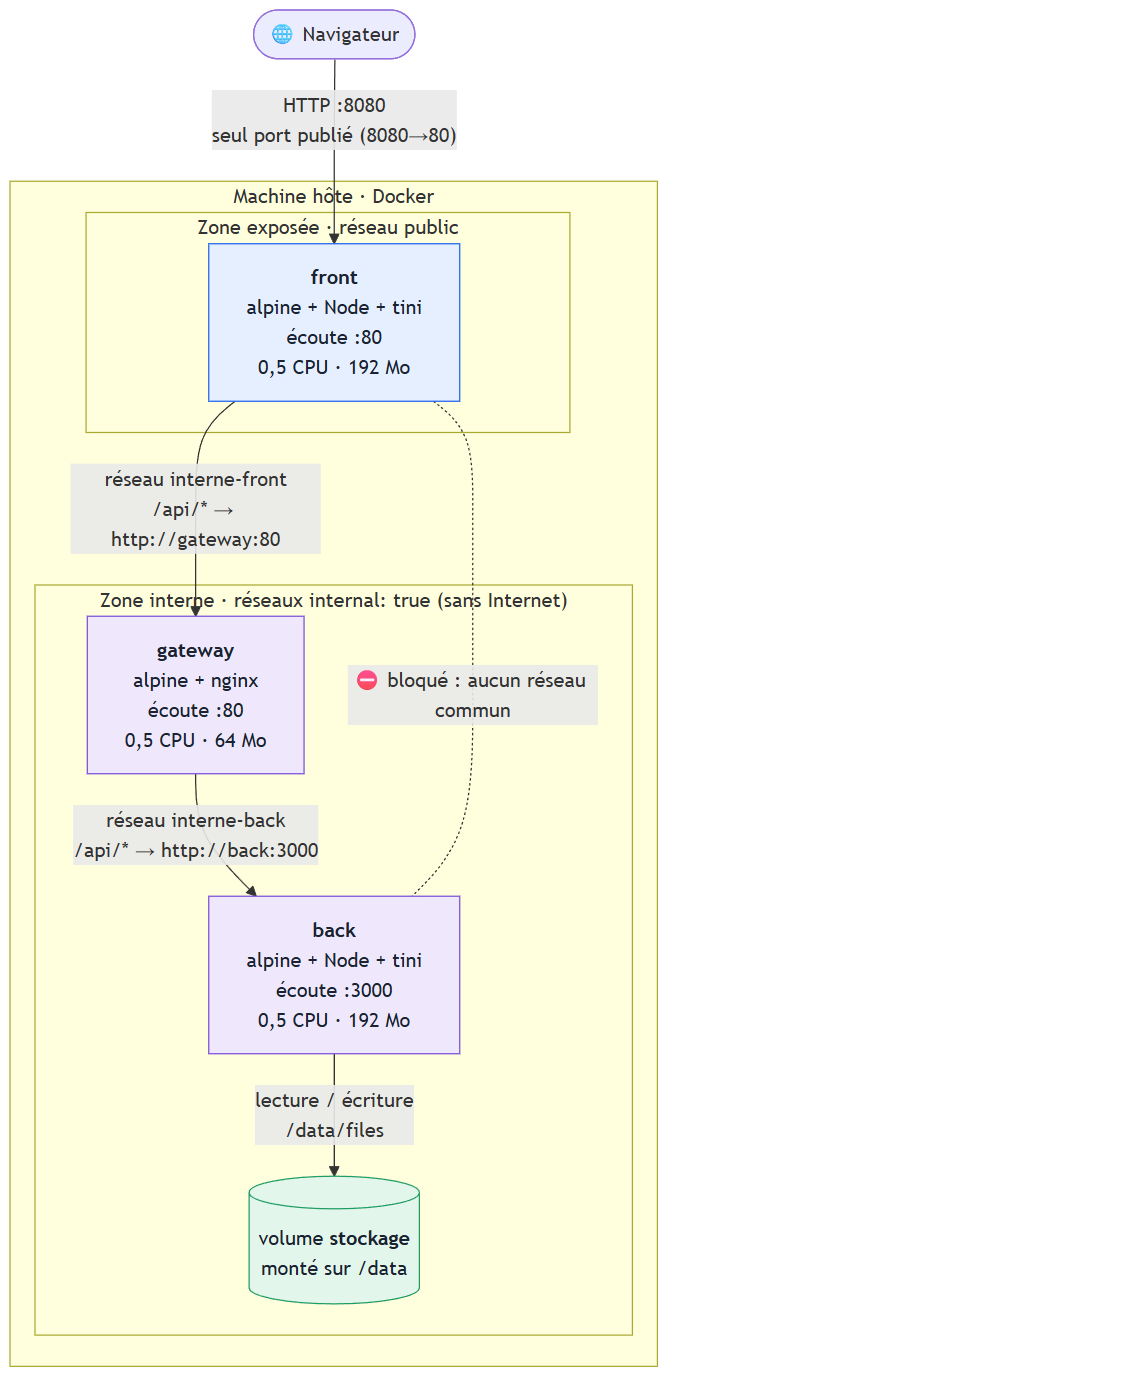
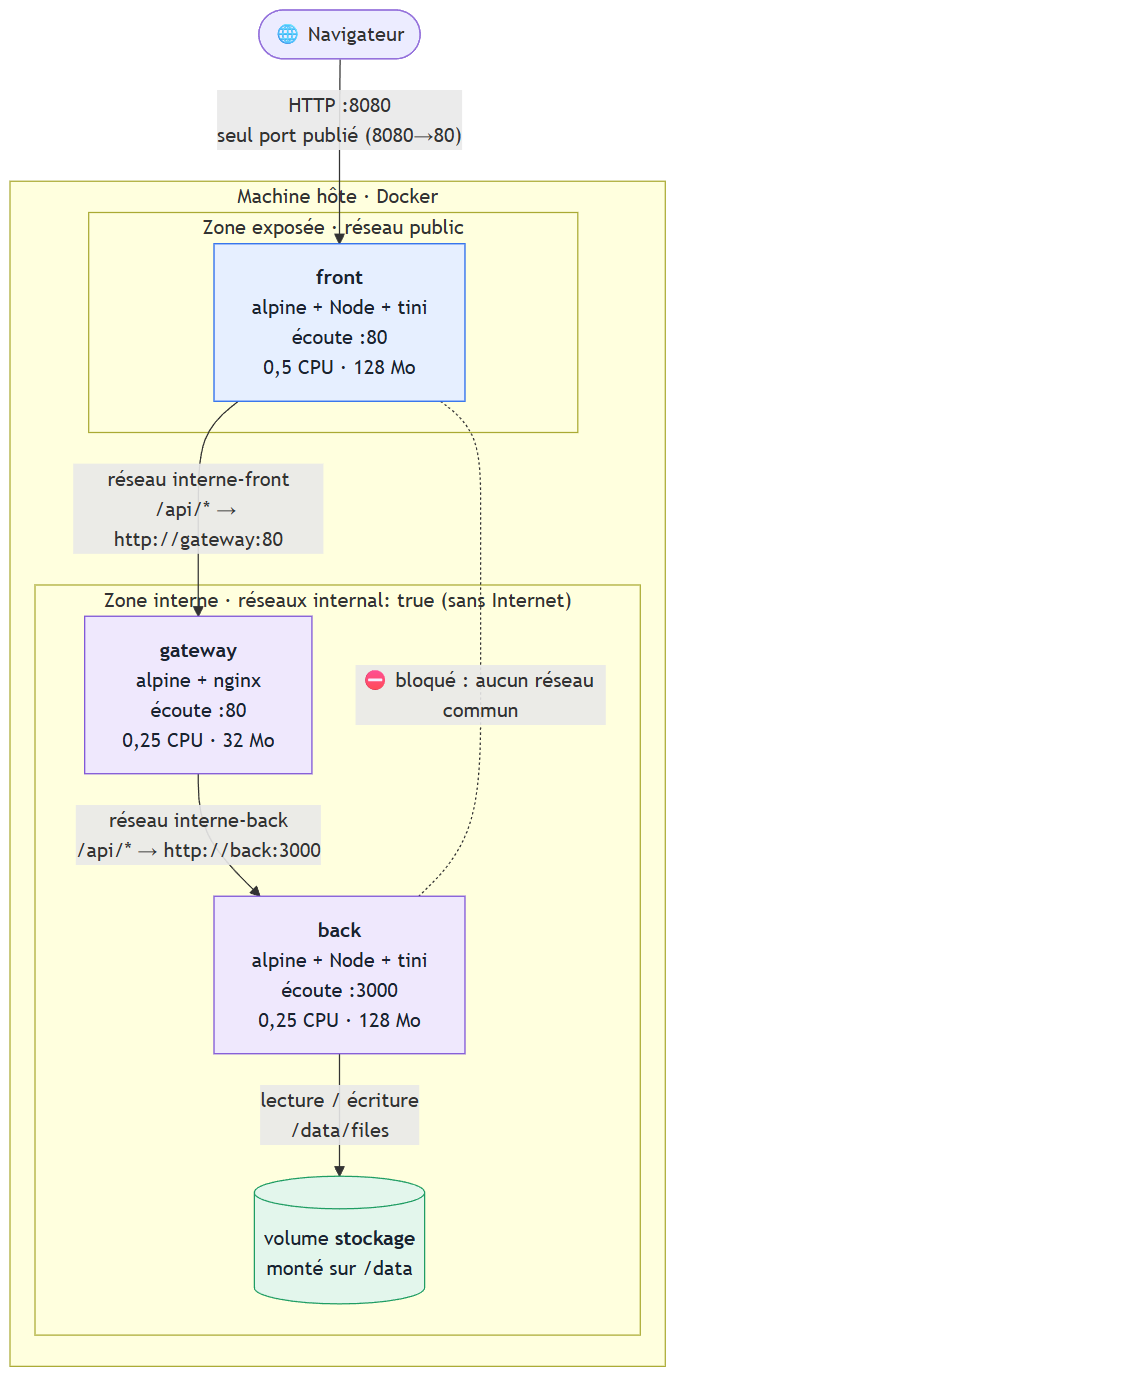
feat(lot5): benchmark des ressources et limites dimensionnées par la mesure
- Bench/ : image alpine + ab (profil compose "bench") et script de mesure docker stats
- limites rééquilibrées selon le coût CPU par requête : front 0.5, gateway 0.25, back 0.25
- mémoire selon les pics mesurés : nginx 32M (~4 Mo), Node 128M (~25 Mo), tas Node 64M
- memswap_limit = limite mémoire : la swap doublait silencieusement les limites
- test OOM : back à 6M tué (137) puis relancé par restart: unless-stopped
- front : le relais retire les en-têtes hop-by-hop (bloquait les clients HTTP/1.0)
- README : section Benchmark détaillée, schéma et docs/architecture.png mis à jour

diff --git a/Frontend/server.js b/Frontend/server.js
@@ -14,12 +14,23 @@ const FILES = {
   '/app.js': ['app.js', 'application/javascript; charset=utf-8'],
 };
 
+// En-têtes « hop-by-hop » (RFC 7230) : ils décrivent une connexion, pas le message, et ne doivent
+// pas être recopiés d'un saut à l'autre. Les recopier (chunked, keep-alive) bloquait les clients HTTP/1.0.
+const HOP_BY_HOP = ['connection', 'keep-alive', 'proxy-connection', 'transfer-encoding', 'te', 'trailer', 'upgrade'];
+
+function withoutHopByHop(headers) {
+  const copy = { ...headers };
+  for (const name of HOP_BY_HOP) delete copy[name];
+  return copy;
+}
+
 // Relaie les appels /api/* vers la gateway (nom du service Docker, joignable seulement en interne)
 function relayToGateway(req, res) {
   const gatewayReq = http.request(
-    { host: GATEWAY_HOST, port: GATEWAY_PORT, path: req.url, method: req.method, headers: req.headers },
+    { host: GATEWAY_HOST, port: GATEWAY_PORT, path: req.url, method: req.method, headers: withoutHopByHop(req.headers) },
     (gatewayRes) => {
-      res.writeHead(gatewayRes.statusCode, gatewayRes.headers);
+      // Node choisit lui-même le découpage adapté au client (chunked en HTTP/1.1, fermeture en HTTP/1.0)
+      res.writeHead(gatewayRes.statusCode, withoutHopByHop(gatewayRes.headers));
       gatewayRes.pipe(res);
       // La gateway peut répondre avant la fin de l'envoi (ex. 413 fichier trop gros) :
       // on lit le reste du corps sans le transmettre, sinon le client reste bloqué

diff --git a/README.md b/README.md
@@ -49,11 +49,11 @@ flowchart TB
   subgraph hote["Machine hôte · Docker"]
     direction TB
     subgraph expose["Zone exposée · réseau public"]
-      front["<b>front</b><br/>alpine + Node + tini<br/>écoute :80<br/>0,5 CPU · 192 Mo"]
+      front["<b>front</b><br/>alpine + Node + tini<br/>écoute :80<br/>0,5 CPU · 128 Mo"]
     end
     subgraph interne["Zone interne · réseaux internal: true (sans Internet)"]
-      gateway["<b>gateway</b><br/>alpine + nginx<br/>écoute :80<br/>0,5 CPU · 64 Mo"]
-      back["<b>back</b><br/>alpine + Node + tini<br/>écoute :3000<br/>0,5 CPU · 192 Mo"]
+      gateway["<b>gateway</b><br/>alpine + nginx<br/>écoute :80<br/>0,25 CPU · 32 Mo"]
+      back["<b>back</b><br/>alpine + Node + tini<br/>écoute :3000<br/>0,25 CPU · 128 Mo"]
       vol[("volume <b>stockage</b><br/>monté sur /data")]
     end
   end
@@ -150,7 +150,7 @@ L'objectif est de pouvoir lancer **plusieurs instances du back** avec une seule 
 
 ### Ressources
 
-Les limites de `deploy.resources` s'appliquent **à chaque instance**. Avec 3 instances du back à 0,5 CPU et 192 Mo, le back peut consommer au total 1,5 CPU et 576 Mo. Le nombre d'instances se choisit en fonction des ressources de la machine.
+Les limites de `deploy.resources` s'appliquent **à chaque instance**. Avec 3 instances du back à 0,25 CPU et 128 Mo, le back peut consommer au total 0,75 CPU et 384 Mo. Le benchmark montre aussi qu'il faudra augmenter la gateway et le front en proportion, sinon ils deviendront le goulot (voir [Benchmark](#benchmark--comment-les-limites-ont-été-choisies)). Le nombre d'instances se choisit en fonction des ressources de la machine.
 
 ### Démonstration prévue
 
@@ -182,6 +182,9 @@ Chaque réponse du back contiendra un en-tête `X-Served-By` avec le nom du cont
 │   ├── Dockerfile
 │   ├── nginx.conf.template  # config nginx avec ${VARIABLES} remplacées au démarrage
 │   └── entrypoint.sh        # génère la config puis lance nginx
+├── Bench/
+│   ├── Dockerfile           # outil de charge ab (profil compose "bench")
+│   └── run-bench.ps1        # mesure CPU/mémoire de chaque service sous charge
 ├── docs/
 │   └── architecture.png     # export image du schéma d'architecture (Mermaid)
 ├── docker-compose.yml       # orchestration des 3 conteneurs
@@ -332,7 +335,7 @@ Résultat testé : un `docker stop` arrête le conteneur en moins d'une seconde,
 
 ```bash
 docker build -t front ./Frontend
-docker run -d --name front -p 8080:80 -e NODE_OPTIONS=--max-old-space-size=128 -e GATEWAY_HOST=gateway --memory=192m --cpus=0.5 front
+docker run -d --name front -p 8080:80 -e NODE_OPTIONS=--max-old-space-size=64 -e GATEWAY_HOST=gateway --memory=128m --memory-swap=128m --cpus=0.5 front
 ```
 
 Seul, le front sert la page, mais `/api/phrase` renvoie `502` tant qu'aucune gateway n'est joignable : voir la section Orchestration.
@@ -426,7 +429,7 @@ Résultat testé : `docker stop` arrête le conteneur en moins d'une seconde.
 
 ```bash
 docker build -t back ./Backend
-docker run -d --name back -p 3000:3000 -e PHRASE="Bonjour depuis le back" -e NODE_OPTIONS=--max-old-space-size=128 --memory=192m --cpus=0.5 back
+docker run -d --name back -p 3000:3000 -e PHRASE="Bonjour depuis le back" -e NODE_OPTIONS=--max-old-space-size=64 --memory=128m --memory-swap=128m --cpus=0.25 back
 ```
 
 Le `-p 3000:3000` sert uniquement à tester l'API seule (`curl http://localhost:3000/api/phrase`). Dans le compose, le back n'est pas publié.
@@ -539,7 +542,7 @@ docker build -t gateway ./Gateway
 docker network create tp-net
 docker run -d --name back  --network tp-net back
 docker run -d --name gateway --network tp-net \
-  -e WORKER_PROCESSES=1 -e WORKER_CONNECTIONS=512 --memory=64m --cpus=0.5 gateway
+  -e WORKER_PROCESSES=1 -e WORKER_CONNECTIONS=512 --memory=32m --memory-swap=32m --cpus=0.25 gateway
 docker run -d --name front --network tp-net -p 8080:80 front
 ```
 
@@ -578,17 +581,110 @@ Les noms d'hôte `gateway` et `back` sont les noms des services : le DNS interne
 
 ### Limitation des ressources
 
-Définie dans `deploy.resources` pour chaque service :
-- **`limits`** : plafond que le conteneur ne peut pas dépasser. En mémoire, s'il le dépasse il est tué (OOM) puis relancé grâce à `restart`.
-- **`reservations`** : mémoire minimale garantie au conteneur.
+Définie pour chaque service dans le compose, avec des valeurs venant du `.env` :
 
-| Service | CPU max | Mémoire max | Mémoire réservée | Justification |
-|---|---|---|---|---|
-| `back` | 0,5 CPU | 192 Mo | 64 Mo | Node consomme environ 10 Mo au repos. `NODE_OPTIONS=--max-old-space-size=128` limite le tas JavaScript : Node libère sa mémoire avant d'atteindre la limite du conteneur. La marge de 64 Mo couvre la mémoire hors tas (runtime, buffers). |
-| `front` | 0,5 CPU | 192 Mo | 64 Mo | Même logique que le back. |
-| `gateway` | 0,5 CPU | 64 Mo | 16 Mo | nginx est très léger (environ 2 Mo au repos). Avec `WORKER_PROCESSES=1`, un seul worker suffit pour 0,5 CPU : plus de workers que de CPU n'apporterait rien. |
+| Réglage | Rôle |
+|---|---|
+| `deploy.resources.limits.cpus` | Plafond de CPU (`0.5` = la moitié d'un cœur). Au-delà, le conteneur est ralenti, pas tué. |
+| `deploy.resources.limits.memory` | Plafond de mémoire. S'il est dépassé, le noyau tue le processus (OOM killer, code `137`), puis `restart: unless-stopped` le relance. |
+| `memswap_limit` (égal à la limite mémoire) | **Désactive la swap.** Par défaut, Docker ajoute autant de swap que de RAM (mesuré : `MemorySwap` = 2 × la limite) : un conteneur « limité à 128 Mo » pouvait en réalité occuper 256 Mo, en ralentissant au lieu de s'arrêter. |
+| `deploy.resources.reservations.memory` | Mémoire **garantie** (réservation souple) : si l'hôte manque de mémoire, Docker reprend d'abord la mémoire des conteneurs qui dépassent leur réservation. |
 
-Consommation mesurée au repos avec `docker stats` : gateway environ 2 Mo, front environ 9 Mo, back environ 10 Mo.
+Valeurs retenues, justifiées par le benchmark ci-dessous :
+
+| Service | CPU | Mémoire max | Tas Node | Réservation | Pic mesuré |
+|---|---|---|---|---|---|
+| `front` | **0,5** | 128 Mo | 64 Mo | 32 Mo | ~50 % CPU · ~25 Mo |
+| `gateway` (nginx) | **0,25** | **32 Mo** | – | 8 Mo | ~26 % CPU · ~4 Mo |
+| `back` | **0,25** | 128 Mo | 64 Mo | 32 Mo | ~25 % CPU · ~20 Mo |
+| `bench` (outil) | 1 | 32 Mo | – | – | – |
+
+### Benchmark : comment les limites ont été choisies
+
+Les limites ne sont pas fixées au hasard : elles sont dimensionnées à partir de **mesures sous charge**, faites avec un outil construit pour l'occasion.
+
+#### Outil de mesure
+
+| Élément | Choix |
+|---|---|
+| Image `Bench/` | Alpine + `apache2-utils` (`ab`, outil de charge HTTP). Image faite par nous, comme les autres (pas d'image de bench du Hub), non-root, `ENTRYPOINT ["ab"]` : le conteneur s'utilise comme une commande. |
+| Service `bench` dans le compose | Dans le profil `bench` : il ne démarre pas avec `docker compose up`, seulement à la demande. Branché sur le réseau `public` uniquement : il attaque le **front comme un vrai client**, donc la mesure couvre toute la chaîne front → gateway → back. Limité lui aussi (1 CPU) pour ne pas voler le CPU des services mesurés. |
+| Script [Bench/run-bench.ps1](Bench/run-bench.ps1) | Lance chaque scénario `ab` et relève `docker stats` en parallèle pendant toute la charge, pour garder le **pic** CPU et mémoire de chaque service. |
+
+```bash
+docker compose up -d --build --wait
+powershell -ExecutionPolicy Bypass -File Bench/run-bench.ps1                          # mesure complète (Windows)
+docker compose --profile bench run --rm bench -n 5000 -c 50 http://front/api/phrase   # un scénario seul
+docker stats                                                                          # suivi en direct, dans un autre terminal
+```
+
+Scénarios : au repos, 1 000 requêtes à 10 en parallèle, 5 000 requêtes à 50 en parallèle, 5 000 requêtes à 100 en parallèle. Machine de test : Docker Desktop, 12 CPU.
+
+#### Étape 1 : mesure de départ (0,5 CPU pour chaque service)
+
+| Scénario | front CPU / Mo | gateway CPU / Mo | back CPU / Mo | Req/s | p95 |
+|---|---|---|---|---|---|
+| Repos | 1 % / 12 Mo | 4 % / 2 Mo | 3 % / 11 Mo | – | – |
+| 5 000 req, 50 en parallèle | **50 %** / 23 Mo | 31 % / 2 Mo | 33 % / 19 Mo | 763 | 103 ms |
+| 5 000 req, 100 en parallèle | **50 %** / 25 Mo | 31 % / 2 Mo | 30 % / 18 Mo | 875 | 174 ms |
+
+Constat : le **front plafonne à sa limite** (50 %) et bride toute la chaîne, alors que la gateway et le back ont de la marge. Avec la même part de CPU pour tous, une partie du CPU de la gateway et du back est gaspillée.
+
+#### Étape 2 : coût de chaque service, en variant les CPU (5 000 req, 50 en parallèle)
+
+| Config (front / gateway / back) | Req/s | p95 | Goulot observé |
+|---|---|---|---|
+| 0,25 / 0,5 / 0,5 | 294 | 306 ms | front, plafonné à 25 % |
+| 0,5 / 0,5 / 0,5 | 763 | 103 ms | front, plafonné à 50 % |
+| 1 / 0,5 / 0,5 | 1 225 | 80 ms | gateway, au maximum (52 %) |
+| 1 / 0,25 / 0,5 | 781 | 97 ms | gateway, plafonnée à 25 % |
+| 1 / 0,25 / 0,25 | 553 | 196 ms | gateway et back |
+| 1 / 0,1 / 0,5 | 348 | 201 ms | gateway, plafonnée à 10 % |
+
+Dans la config la plus rapide (1 225 req/s), on déduit le **coût CPU d'une requête** pour chaque service (CPU au pic ÷ débit) :
+
+| Service | Coût CPU par requête | Pourquoi |
+|---|---|---|
+| front | ~0,74 ms | Le plus coûteux : il reçoit chaque requête **et** en ouvre une nouvelle vers la gateway (relais). |
+| gateway (nginx) | ~0,42 ms | nginx est efficace, mais il relaie lui aussi chaque requête vers le back. |
+| back | ~0,36 ms | Il ne fait que répondre. |
+
+#### Étape 3 : dimensionnement retenu
+
+**CPU, dosé en proportion du coût par requête**, pour que les trois services saturent à peu près au même débit et qu'aucun CPU ne soit gaspillé :
+- front **0,5** : 0,5 / 0,74 ms ≈ 675 req/s ;
+- gateway **0,25** : 0,25 / 0,42 ms ≈ 600 req/s ;
+- back **0,25** : 0,25 / 0,36 ms ≈ 690 req/s.
+
+Le front reçoit le double des autres parce qu'il coûte deux fois plus par requête. **nginx reçoit autant que le back, mais pas plus** : malgré sa légèreté, il traite toutes les requêtes. Lui donner moins (0,1 CPU) divise le débit de la stack par 3,5 (348 req/s).
+
+**Mémoire, dosée selon le pic mesuré.** C'est là que nginx se distingue nettement :
+- **gateway : 32 Mo** pour un pic d'environ 4 Mo. nginx ne garde presque rien en mémoire, et il écrit les gros corps de requête (uploads) sur disque, pas en RAM. 32 Mo laissent 8 fois de marge, soit 4 fois moins que les services Node.
+- **front et back : 128 Mo** pour un pic d'environ 20 à 25 Mo. Node a un coût fixe plus élevé (moteur V8, environ 9 Mo au repos). La marge (plus de 5 fois) est prévue pour les uploads de l'application. Le tas JavaScript est plafonné à **64 Mo** (`NODE_OPTIONS`), la moitié de la limite : le reste couvre la mémoire hors tas (buffers des flux d'upload), pour que Node libère sa mémoire avant d'atteindre la limite du conteneur.
+- **Réservations** légèrement au-dessus du pic mesuré (32 Mo pour Node, 8 Mo pour nginx) : même si l'hôte manque de mémoire, chaque service garde de quoi tourner normalement.
+
+#### Étape 4 : validation avec les valeurs retenues (sans swap)
+
+| Scénario | front CPU / Mo | gateway CPU / Mo | back CPU / Mo | Req/s | p95 | Échecs |
+|---|---|---|---|---|---|---|
+| Repos | 0 % / 9 Mo | 0 % / 2 Mo | 0 % / 8 Mo | – | – | – |
+| 1 000 req, 10 en parallèle | 42 % / 13 Mo | 13 % / 2 Mo | 26 % / 12 Mo | 335 | 88 ms | 0 |
+| 5 000 req, 50 en parallèle | 45 % / 22 Mo | 25 % / 3 Mo | 25 % / 19 Mo | 634 | 182 ms | 0 |
+| 5 000 req, 100 en parallèle | 50 % / 25 Mo | 27 % / 4 Mo | 22 % / 20 Mo | 803 | 200 ms | 0 |
+
+Avec **1 CPU au total** (contre 1,5 au départ), la stack garde 80 à 90 % du débit initial, sans aucun échec. Les trois services arrivent ensemble près de leur limite, ce qui montre que le dosage est équilibré. Les pics mémoire restent loin des plafonds.
+
+#### Étape 5 : test de dépassement mémoire (OOM)
+
+| Test | Résultat |
+|---|---|
+| Back limité à **6 Mo, sans swap** | Tué par le noyau (`OOMKilled=true`, code `137`), puis relancé en boucle par `restart: unless-stopped` (8 redémarrages en 20 s). C'est le comportement attendu d'une limite dépassée. |
+| Back limité à 6 Mo **avec** la swap par défaut | Ne meurt pas : il déborde sur la swap (`MemorySwap` = 12 Mo). C'est ce constat qui a conduit à ajouter `memswap_limit`. |
+| Processus qui alloue de la mémoire en boucle dans un conteneur à 48 Mo (swap par défaut) | Tué vers 80 Mo et non 48 : la limite réelle était doublée par la swap. |
+
+#### Bug révélé par le benchmark
+
+Le premier lancement d'`ab` restait **bloqué** après environ 500 requêtes. Le relais du front recopiait tels quels les en-têtes de nginx `transfer-encoding: chunked` et `connection: keep-alive`. Ce sont des en-têtes « hop-by-hop » (RFC 7230), propres à une connexion, qu'un proxy ne doit pas retransmettre. Un client HTTP/1.0 comme `ab` ne sait pas lire le format `chunked` et attendait une fermeture qui n'arrivait jamais ; les navigateurs, en HTTP/1.1, ne voyaient pas le problème. Le relais retire maintenant ces en-têtes (`withoutHopByHop` dans [Frontend/server.js](Frontend/server.js)). Résultat : 0 échec sur tous les scénarios.
 
 ### Ordre de démarrage
 

diff --git a/AGENTS.md b/AGENTS.md
@@ -27,6 +27,7 @@ Le front ne peut **pas** joindre le back en direct : la gateway est le seul pont
 | `Gateway/` | alpine + nginx + gettext-envsubst | Passerelle d'API : seul chemin vers le back, n'accepte que `/api/` et `/health`. Config générée au run (`nginx.conf.template` + `entrypoint.sh`). |
 | `Backend/` | alpine + nodejs + tini | API : `GET /api/phrase`, `GET /health`. |
 | `docker-compose.yml` | – | Orchestration : réseaux `public` / `interne-front` / `interne-back`, volume `stockage`, ressources, healthchecks, ordre back → gateway → front. |
+| `Bench/` | alpine + apache2-utils (`ab`) | Outil de charge, profil compose `bench` (ne démarre pas avec `up`). `run-bench.ps1` mesure les pics CPU / mémoire. |
 | `.env` | – | Source unique des valeurs (versions, ports, CPU, mémoire, limites). Versionné : aucun secret. |
 | `questui-DESIGN.md` | – | Design system de l'interface (voir « Interface (design) »). |
 
@@ -38,6 +39,8 @@ docker compose ps                     # état / santé / ports
 docker compose logs -f <service>
 docker compose down                   # arrêt propre ; -v supprime aussi les volumes
 docker compose run --rm gateway nginx -t -c /tmp/nginx.conf   # tester la config nginx générée
+powershell -ExecutionPolicy Bypass -File Bench/run-bench.ps1    # benchmark (stack démarrée)
+docker compose --profile bench run --rm bench -n 5000 -c 50 http://front/api/phrase   # un scénario ab
 ```
 
 Application : http://127.0.0.1:8080. Sur le poste de dev, `localhost:8080` peut être intercepté par `wslrelay` (WSL) : utiliser `127.0.0.1`.
@@ -68,6 +71,12 @@ Application : http://127.0.0.1:8080. Sur le poste de dev, `localhost:8080` peut 
 - `HEALTHCHECK` sur chaque image (`127.0.0.1` pour nginx, qui n'écoute qu'en IPv4). Le compose utilise `depends_on: condition: service_healthy`.
 - `.dockerignore` et `LABEL org.opencontainers.image.*` sur chaque image.
 - `EXPOSE` documente, seul `ports:` publie. Seul le front publie un port.
+
+### Ressources
+- Chaque service a `deploy.resources.limits` (cpus, memory), `reservations.memory` et **`memswap_limit` égal à la limite mémoire** : sans ça, Docker double la limite en swap (mesuré) et le service ralentit au lieu d'être arrêté.
+- Les valeurs du `.env` sont **justifiées par le benchmark** (`Bench/run-bench.ps1`, section Benchmark du README) : CPU proportionnel au coût par requête de chaque service, mémoire selon le pic mesuré. nginx consomme bien moins que Node (environ 4 Mo contre 20 à 25 Mo) : ne pas lui donner autant.
+- Tas Node (`*_NODE_MAX_MEMORY`) à la moitié de la limite mémoire du conteneur. Réservation minimale imposée par Docker : 6 Mo.
+- Toute modification des services ou des limites : relancer le benchmark et mettre à jour les tableaux du README.
 
 ### ARG / ENV / .env
 - **ARG** = build uniquement (`ALPINE_VERSION`, `PORT` → `EXPOSE` + défaut de `ENV PORT`).
